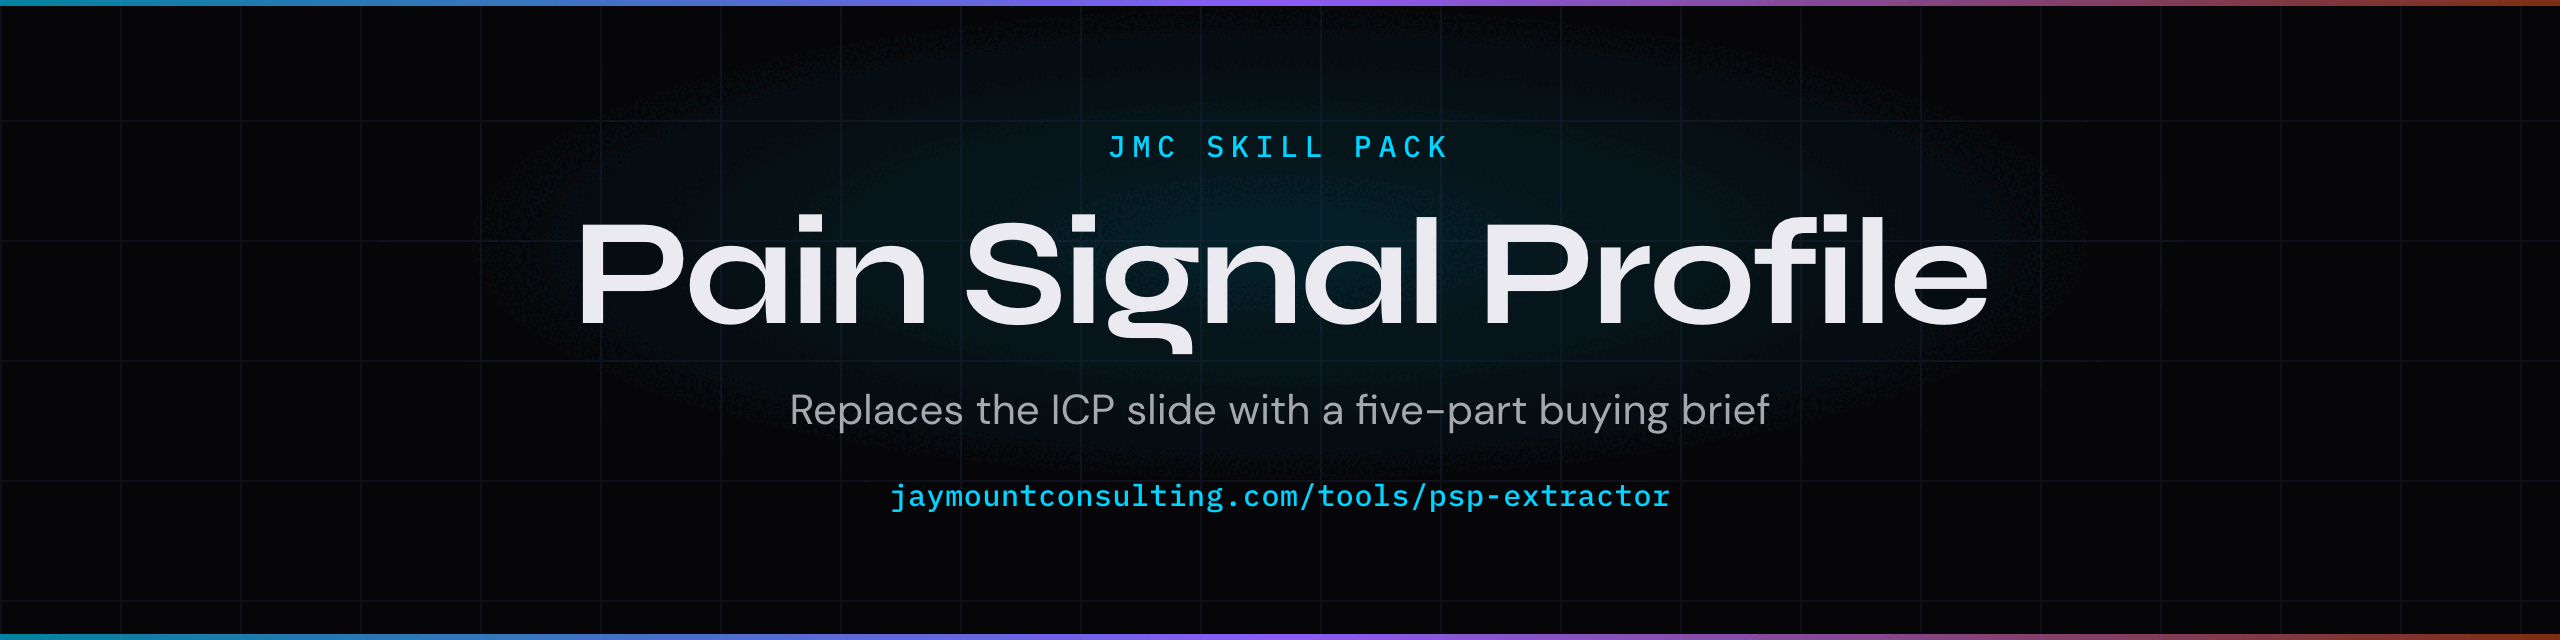
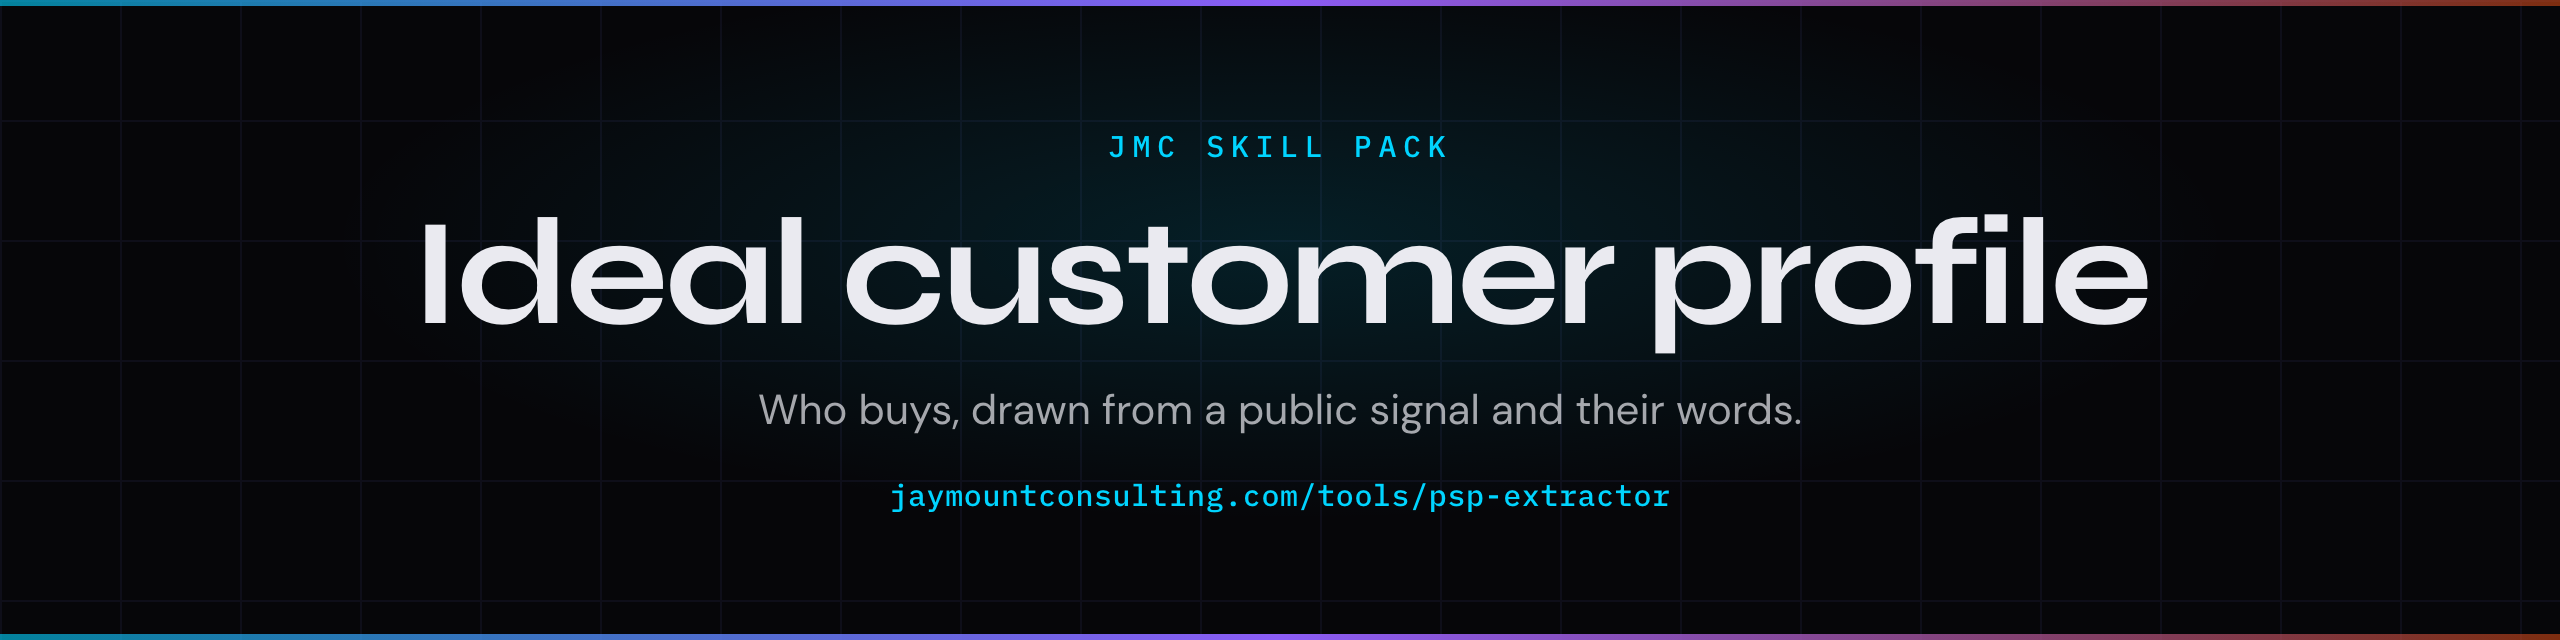
docs(assets): put the search phrase on the card and demo
Header, social card, and demo now use the search phrase and the scores already printed in the README.

Changed region(s): [[0.1562, 0.3125, 0.8438, 0.5625], [0.2812, 0.5938, 0.7188, 0.6875]]

diff --git a/README.md b/README.md
@@ -26,7 +26,7 @@ The build guide teaches the framework to a human. This pack teaches the same fra
 ![Install](https://img.shields.io/badge/install-npx%20skills-blue)
 
 <p align="center">
-  <img src="./assets/demo.gif" alt="claude-psp — scoring a sample Pain Signal Profile 100 vs 37" width="100%">
+  <img src="./assets/demo.gif" alt="Ideal customer profile skill — signal 100, costume 37" width="100%">
 </p>
 
 ## What this replaces
